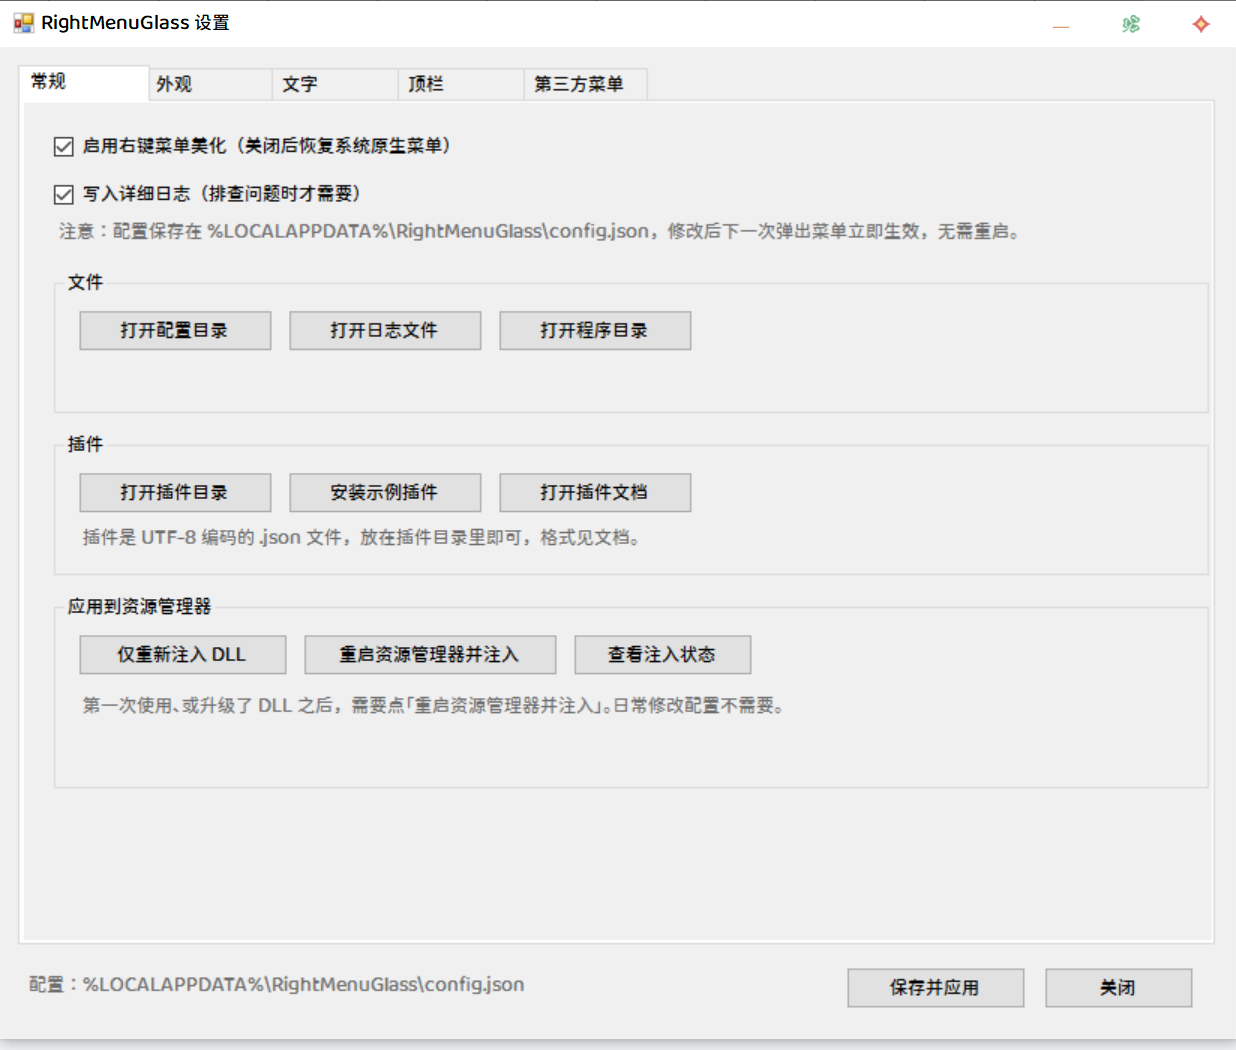
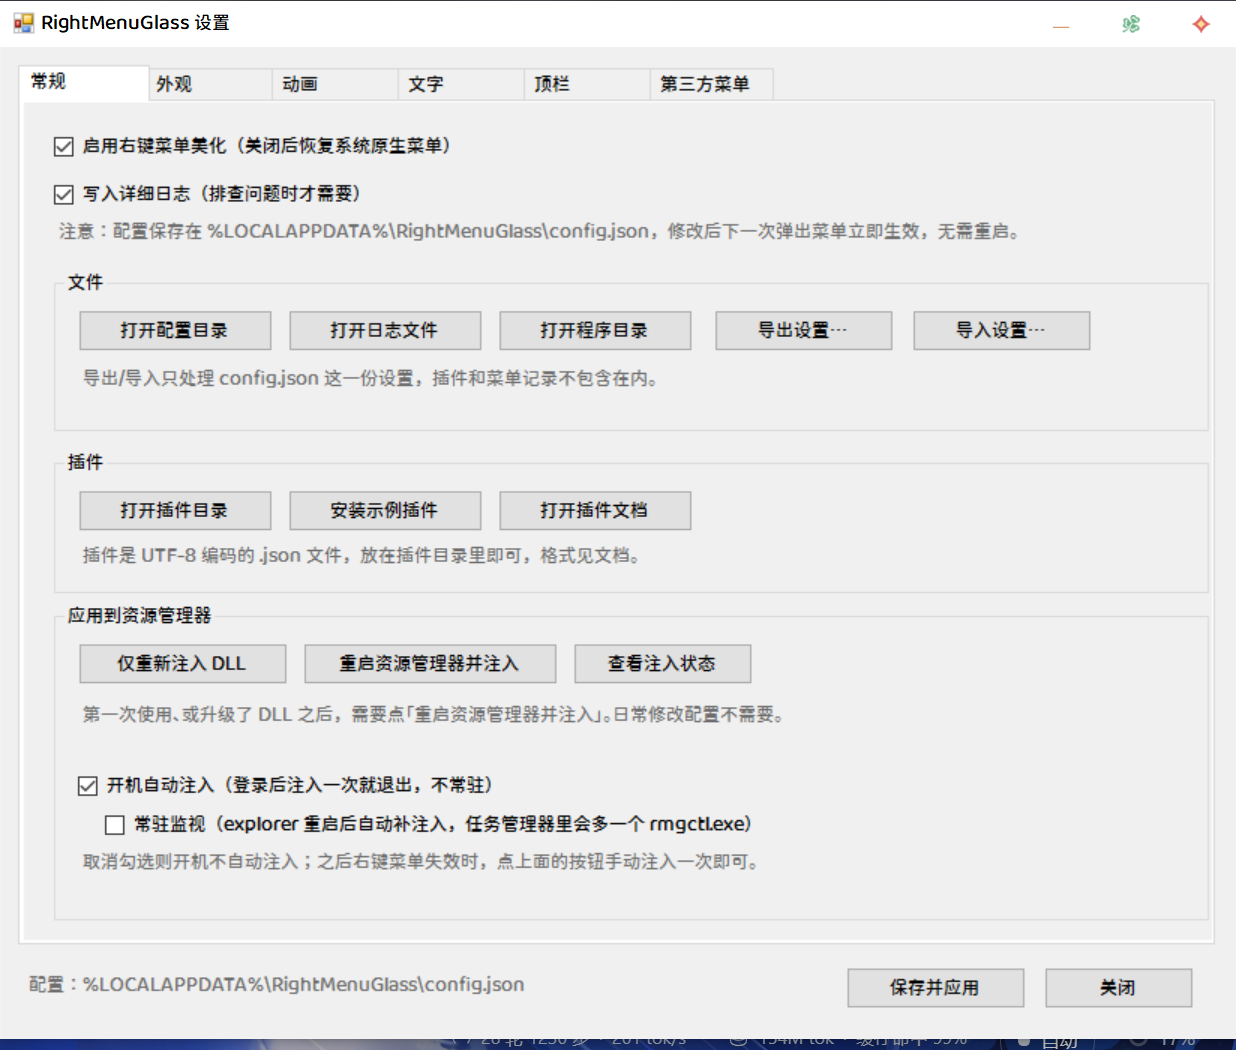
Add inject-once autostart and optional logon task
- rmgctl: new `once` command waits for explorer, injects the DLL and exits,
  so no resident watcher is left running after logon
- rmgctl: `install` writes `once --silent` by default; `install --watch` keeps
  the old resident behaviour
- settings: autostart checkbox and an optional 'watch' sub-checkbox
- install.ps1: when run as administrator, also register a logon scheduled task
  so the DLL is in place before the desktop appears
- README: document once mode, the logon task, and recovery after restarting
  explorer by hand; refresh the settings screenshot

diff --git a/src/cfg/MainForm.cs b/src/cfg/MainForm.cs
@@ -9,6 +9,7 @@ using System.IO;
 using System.Runtime.InteropServices;
 using System.Text;
 using System.Windows.Forms;
+using Microsoft.Win32;
 
 namespace RmgCfg {
     public class MainForm : Form {
@@ -28,6 +29,7 @@ namespace RmgCfg {
 
         // 常规
         CheckBox chkEnabled, chkLogVerbose;
+        CheckBox chkAutostart, chkAutostartWatch;
 
         // 亚克力
         CheckBox chkAcrylic, chkAutoTint;
@@ -203,6 +205,7 @@ namespace RmgCfg {
                 if (!Directory.Exists(cfgDir)) Directory.CreateDirectory(cfgDir);
                 File.WriteAllText(cfgPath, Json.Stringify(root, true) + "\n", new UTF8Encoding(false));
                 statusLabel.Text = "已保存：" + ShownPath(cfgPath);
+                ApplyAutostartFromUi();
             } catch (Exception ex) {
                 MessageBox.Show("保存失败：\n" + ex.Message, "RightMenuGlass", MessageBoxButtons.OK, MessageBoxIcon.Error);
             }
@@ -342,14 +345,21 @@ namespace RmgCfg {
             g2.Controls.Add(MkHint("插件是 UTF-8 编码的 .json 文件，放在插件目录里即可，格式见文档。", 16, 62, 730, 22));
             p.Controls.Add(g2);
 
-            GroupBox g3 = MkGroup("应用到资源管理器", 20, 340, 770, 130);
+            GroupBox g3 = MkGroup("应用到资源管理器", 20, 334, 770, 212);
             g3.Controls.Add(MkBtn("仅重新注入 DLL", 16, 26, 140, delegate (object s, EventArgs e) { RunCtl("inject", true); }));
             g3.Controls.Add(MkBtn("重启资源管理器并注入", 166, 26, 170, delegate (object s, EventArgs e) {
                 if (MessageBox.Show("会关闭所有文件夹窗口（不会丢失已保存的文件），桌面会闪烁一下。继续？", "RightMenuGlass", MessageBoxButtons.OKCancel, MessageBoxIcon.Question) == DialogResult.OK)
                     RunCtl("restart", true);
             }));
             g3.Controls.Add(MkBtn("查看注入状态", 346, 26, 120, delegate (object s, EventArgs e) { RunCtl("status", false); }));
-            g3.Controls.Add(MkHint("第一次使用、或升级了 DLL 之后，需要点「重启资源管理器并注入」。日常修改配置不需要。", 16, 66, 730, 44));
+            g3.Controls.Add(MkHint("第一次使用、或升级了 DLL 之后，需要点「重启资源管理器并注入」。日常修改配置不需要。", 16, 66, 730, 40));
+
+            chkAutostart = MkCheck("开机自动注入（登录后注入一次就退出，不常驻）", 16, 110, 520);
+            chkAutostartWatch = MkCheck("常驻监视（explorer 重启后自动补注入，任务管理器里会多一个 rmgctl.exe）", 34, 136, 700);
+            g3.Controls.Add(chkAutostart);
+            g3.Controls.Add(chkAutostartWatch);
+            g3.Controls.Add(MkHint("取消勾选则开机不自动注入；之后右键菜单失效时，点上面的按钮手动注入一次即可。", 16, 164, 730, 40));
+            chkAutostart.CheckedChanged += delegate (object s, EventArgs e) { UpdateAutostartEnabled(); };
             p.Controls.Add(g3);
 
             return p;
@@ -1361,6 +1371,7 @@ namespace RmgCfg {
                     grid.Rows.Add(Json.GetBool(b, "enabled", true), Json.GetStr(b, "label", ""), Json.GetStr(b, "cmd", ""), IconToDisplay(Json.GetStr(b, "icon", "")));
                 }
             }
+            LoadAutostartIntoUi();
         }
 
         // Private-use glyphs are unreadable in a grid, so show their hex code instead.
@@ -1583,6 +1594,68 @@ namespace RmgCfg {
                     DrawToBitmap(bmp, new Rectangle(0, 0, Width, Height));
                     bmp.Save(Path.Combine(dir, "cfg_tab" + i.ToString() + ".png"), System.Drawing.Imaging.ImageFormat.Png);
                 }
+            }
+        }
+
+        // ---------------- autostart ----------------
+        const string RunKeyPath = @"Software\Microsoft\Windows\CurrentVersion\Run";
+
+        string ReadRunValue() {
+            try {
+                using (RegistryKey k = Registry.CurrentUser.OpenSubKey(RunKeyPath, false)) {
+                    if (k == null) return "";
+                    object v = k.GetValue("RightMenuGlass");
+                    return v == null ? "" : v.ToString();
+                }
+            } catch {
+                return "";
+            }
+        }
+
+        void LoadAutostartIntoUi() {
+            if (chkAutostart == null) return;
+            string val = ReadRunValue();
+            chkAutostart.Checked = val.Length > 0;
+            chkAutostartWatch.Checked = val.Length > 0 && val.IndexOf("watch", StringComparison.OrdinalIgnoreCase) >= 0;
+            UpdateAutostartEnabled();
+        }
+
+        void UpdateAutostartEnabled() {
+            if (chkAutostartWatch == null) return;
+            chkAutostartWatch.Enabled = chkAutostart.Checked;
+            if (!chkAutostart.Checked) chkAutostartWatch.Checked = false;
+        }
+
+        void StartWatchSilently() {
+            string exe = Path.Combine(appDir, "rmgctl.exe");
+            if (!File.Exists(exe)) return;
+            try {
+                ProcessStartInfo si = new ProcessStartInfo(exe, "watch --silent");
+                si.UseShellExecute = false;
+                si.CreateNoWindow = true;
+                Process p = Process.Start(si);
+                if (p != null) p.Dispose();
+            } catch {
+            }
+        }
+
+        // 只有和注册表里的现状不一致时才写，避免每次「保存并应用」都重写自启动项。
+        void ApplyAutostartFromUi() {
+            if (chkAutostart == null) return;
+            string cur = ReadRunValue();
+            bool curOn = cur.Length > 0;
+            bool curWatch = curOn && cur.IndexOf("watch", StringComparison.OrdinalIgnoreCase) >= 0;
+            bool wantOn = chkAutostart.Checked;
+            bool wantWatch = chkAutostart.Checked && chkAutostartWatch.Checked;
+            if (!wantOn) {
+                if (curOn) RunCtl("uninstall", false);
+                if (curWatch) RunCtl("stop", false);
+                return;
+            }
+            if (!curOn || curWatch != wantWatch) {
+                RunCtl(wantWatch ? "install --watch" : "install", false);
+                if (wantWatch) StartWatchSilently();
+                else RunCtl("stop", false);
             }
         }
 

diff --git a/src/host/rmgctl.cpp b/src/host/rmgctl.cpp
@@ -245,16 +245,17 @@ static void PrintUsage() {
     wprintf(L"RightMenuGlass control\n");
     wprintf(L"  rmgctl status  [dllpath]   list explorer processes and hook state\n");
     wprintf(L"  rmgctl inject  [dllpath]   inject into every explorer.exe process\n");
+    wprintf(L"  rmgctl once    [dllpath]   wait for explorer, inject once, then exit\n");
     wprintf(L"  rmgctl watch   [dllpath]   keep injecting new explorer.exe processes\n");
     wprintf(L"  rmgctl restart [dllpath]   restart explorer.exe so a new DLL takes effect\n");
     wprintf(L"  rmgctl uninject [dllpath]  unload the DLL from every explorer.exe process\n");
     wprintf(L"  rmgctl stop                stop background watch processes\n");
     wprintf(L"  rmgctl uninstall           remove autostart entry\n");
-    wprintf(L"  rmgctl install             add autostart entry (rmgctl watch)\n");
-    wprintf(L"options: --silent, --no-inject (restart only)\n");
+    wprintf(L"  rmgctl install [--watch]   add autostart entry (inject-once by default)\n");
+    wprintf(L"options: --silent, --watch, --no-inject (restart only)\n");
 }
 
-static bool SetAutoStart(bool enable) {
+static bool SetAutoStart(bool enable, bool watch) {
     HKEY key = NULL;
     if (RegOpenKeyExW(HKEY_CURRENT_USER, L"Software\\Microsoft\\Windows\\CurrentVersion\\Run", 0, KEY_SET_VALUE,
                       &key) != ERROR_SUCCESS) {
@@ -262,7 +263,9 @@ static bool SetAutoStart(bool enable) {
     }
     LONG rc;
     if (enable) {
-        std::wstring cmd = L"\"" + ExeDir() + L"\\rmgctl.exe\" watch --silent";
+        // Default is "once": inject and exit, so nothing stays resident after logon.
+        std::wstring verb = watch ? L"watch" : L"once";
+        std::wstring cmd = L"\"" + ExeDir() + L"\\rmgctl.exe\" " + verb + L" --silent";
         rc = RegSetValueExW(key, L"RightMenuGlass", 0, REG_SZ, (const BYTE*)cmd.c_str(),
                             (DWORD)((cmd.size() + 1) * sizeof(wchar_t)));
     } else {
@@ -278,10 +281,13 @@ int wmain(int argc, wchar_t** argv) {
     std::wstring dllPath;
     bool haveDllArg = false;
     bool noInject = false;
+    bool watchMode = false;
     for (int i = 1; i < argc; ++i) {
         std::wstring a = argv[i];
         if (a == L"--silent") {
             g_silent = 1;
+        } else if (a == L"--watch") {
+            watchMode = true;
         } else if (a == L"--no-inject") {
             noInject = true;
         } else if (cmd.empty()) {
@@ -314,6 +320,21 @@ int wmain(int argc, wchar_t** argv) {
         int n = InjectAll(dllPath, !g_silent);
         if (!g_silent) wprintf(L"injected %d process(es)\n", n);
         return 0;
+    }
+    if (cmd == L"once") {
+        EnableDebugPrivilege();
+        // The Run key fires before the shell is fully up on slow logins, so wait for
+        // explorer instead of failing immediately. Bounded so a broken session cannot hang.
+        for (int waited = 0; waited < 90000; waited += 500) {
+            if (!FindProcesses(L"explorer.exe").empty()) {
+                int n = InjectAll(dllPath, !g_silent);
+                if (!g_silent) wprintf(L"injected %d process(es), exiting\n", n);
+                return 0;
+            }
+            Sleep(500);
+        }
+        if (!g_silent) wprintf(L"explorer.exe did not start within 90s, giving up\n");
+        return 2;
     }
     if (cmd == L"watch") {
         EnableDebugPrivilege();
@@ -371,15 +392,19 @@ int wmain(int argc, wchar_t** argv) {
         return 0;
     }
     if (cmd == L"install") {
-        if (!SetAutoStart(true)) {
+        if (!SetAutoStart(true, watchMode)) {
             wprintf(L"failed to write autostart entry\n");
             return 3;
         }
-        wprintf(L"autostart installed: %ls\\rmgctl.exe watch --silent\n", ExeDir().c_str());
+        wprintf(L"autostart installed: %ls\\rmgctl.exe %ls --silent\n", ExeDir().c_str(),
+                watchMode ? L"watch" : L"once");
+        if (!watchMode) {
+            wprintf(L"mode: inject once at logon and exit (run rmgctl inject to redo it after an explorer restart)\n");
+        }
         return 0;
     }
     if (cmd == L"uninstall") {
-        SetAutoStart(false);
+        SetAutoStart(false, false);
         wprintf(L"autostart entry removed (running instance keeps working until explorer restarts)\n");
         return 0;
     }

diff --git a/README.md b/README.md
@@ -47,10 +47,28 @@ Windows 的右键菜单由 `explorer.exe` 调用 `TrackPopupMenuEx` 弹出。Rig
 脚本会：
 
 1. 把 `bin` 里的文件复制到 `%LOCALAPPDATA%\Programs\RightMenuGlass`；
-2. 写注册表 `HKCU\Software\Microsoft\Windows\CurrentVersion\Run`，让 `rmgctl.exe watch` 开机自启（它会盯着所有 explorer 进程，新开的窗口也自动注入）；
-3. 重启一次资源管理器并注入，立刻生效，同时在后台启动一个 `watch` 进程，之后新开的文件夹窗口自动接管。
+2. 写注册表 `HKCU\Software\Microsoft\Windows\CurrentVersion\Run`，内容是 `rmgctl.exe once --silent`：登录后等 explorer 出现、注入一次就退出，**不留常驻进程**；
+3. 重启一次资源管理器并注入，立刻生效。
 
-不需要管理员权限：所有文件都在当前用户目录，注册表项也写在 HKCU。
+因为开机只注入一次，如果之后手动重启了资源管理器（任务管理器 → 重启资源管理器、或 explorer 崩溃重启），右键菜单会变回系统原生样式，点一下设置界面的「仅重新注入 DLL」或运行 `rmgctl.exe inject` 即可恢复。想让它在 explorer 重启时自动补注入，就改用常驻模式：
+
+    rmgctl.exe install --watch     # 自启动改为常驻监视（任务管理器里会多一个 rmgctl.exe）
+
+设置界面「常规 → 应用到资源管理器」里的两个勾选框对应的就是这两种模式，改完点「保存并应用」即可。
+
+### 让菜单在进入桌面时就已就绪（可选）
+
+`HKCU\...\Run` 是 explorer 自己读取的，要等它把 shell 初始化完才轮到（实测进入桌面后约 20–30 秒），这段时间内右键还是原生菜单。想让注入更早，用**管理员**身份创建一条登录计划任务（下面的命令在管理员命令提示符 `cmd` 里执行）：
+
+    schtasks /create /tn RightMenuGlass /tr "\"%LOCALAPPDATA%\Programs\RightMenuGlass\rmgctl.exe\" once --silent" /sc onlogon /f
+
+它和 Run 项做的是同一件事（跑一次 `once` 就退出，不留常驻进程），但由任务计划程序在登录瞬间触发，`once` 会在 explorer 出现后几百毫秒内完成注入。删除它：
+
+    schtasks /delete /tn RightMenuGlass /f
+
+用管理员身份运行 `install.ps1` 时脚本会自动创建这条任务；普通身份运行只会写 Run 项。
+
+安装本身不需要管理员权限：所有文件都在当前用户目录，注册表项也写在 HKCU；只有上面这条可选的登录计划任务需要提权。
 
 安装目录里：
 
@@ -69,8 +87,11 @@ Windows 的右键菜单由 `explorer.exe` 调用 `TrackPopupMenuEx` 弹出。Rig
     rmgctl.exe uninject      从 explorer 里卸载 DLL（不重启资源管理器）
     rmgctl.exe restart       重启资源管理器并注入（升级 DLL 后用）
     rmgctl.exe restart --no-inject  重启资源管理器但不注入
+    rmgctl.exe once          等 explorer 出现，注入一次后退出（自启动用的就是它）
+    rmgctl.exe watch         常驻监视，持续注入新出现的 explorer 进程
     rmgctl.exe stop          结束后台的 watch 进程
-    rmgctl.exe install       设置开机自启
+    rmgctl.exe install       设置开机自启（默认注入一次后退出）
+    rmgctl.exe install --watch  设置开机自启并常驻监视
     rmgctl.exe uninstall     取消开机自启
 
 ### 从源码构建
@@ -277,4 +298,6 @@ Windows 的右键菜单由 `explorer.exe` 调用 `TrackPopupMenuEx` 弹出。Rig
 - 新增：**展开方向**可自定义。设置 → 外观 → 展开方向，可选 右下（默认）/ 右上 / 左下 / 左上 / 自动；放不下时依然会自动翻到另一侧。「自动」按指针所在半屏决定朝哪边展开，效果就是"永远朝屏幕中央"。
 - 变更：发布包的默认设置换成作者日常调校的一套——模糊半径 10、不透明度 0（完全透明，只留模糊背景）、无噪点、过渡宽度 2、描边宽度 2、描边强度 30、呼出动画默认「优雅」（420 毫秒、起始缩放 93%、起始下移 12 像素）、顶栏高度 32、顶栏第六个按钮改为「设置」（rmgcfg），第三方菜单里默认把 7-Zip 那一组提到一级（合并名「常用工具」，没装 7-Zip 的机器上这条不生效）。两处例外：详细日志默认仍关闭（排查时才开），字体默认仍为 Microsoft YaHei UI（作者的「江城圆体」是机器上单独安装的字体，写进默认值会让别人的菜单回落到别的字体）。
 - 新增：**取色粒度**三档，取代原来的「逐像素判断」复选框（设置 → 文字 → 取色粒度）。「逐像素」保持原样，一个字内部也能一半黑一半白；「按字」让每个字只取一种颜色，取的是这个字所在区域的平均背景亮度，所以同一行里靠左的字可以是黑、靠右的字可以是白，但一个字不会被切成两种颜色——笔画细小的字体下比逐像素干净，可读性也更好；「整项同色」整个菜单项只用一个颜色，最统一。配置文件里对应 `colors.colorUnit`（pixel / glyph / item），旧的 `perPixel` 仍被读取以兼容老配置。
+- 变更：开机自启动改成**注入一次就退出**。注册表 Run 项现在是 `rmgctl.exe once --silent`：登录后它会等 explorer 出现，把 DLL 注入一次就自行结束，任务管理器里不会长期挂着一个 rmgctl.exe。代价是之后手动重启资源管理器（或 explorer 崩溃自动重启）会丢掉注入，此时点设置界面「仅重新注入 DLL」即可恢复。需要"explorer 重启时自动补注入"的老行为，用 `rmgctl.exe install --watch`，或在设置 → 常规 → 应用到资源管理器里勾上「常驻监视」。安装脚本也不再在后台拉起 watch 进程。
+- 新增：可选的**登录计划任务**，让注入更早。`HKCU\...\Run` 是 explorer 自己在 shell 初始化完之后才处理的（实测进入桌面后约 20–30 秒），这段时间右键还是原生菜单；改用管理员身份运行 `install.ps1`（或手动创建计划任务 `RightMenuGlass`，内容是 `rmgctl.exe once --silent`）后，任务计划程序在登录瞬间就触发它，进入桌面时菜单通常已经就绪。计划任务与 Run 项互相独立，删掉其中任意一个，另一个仍能工作。
 
